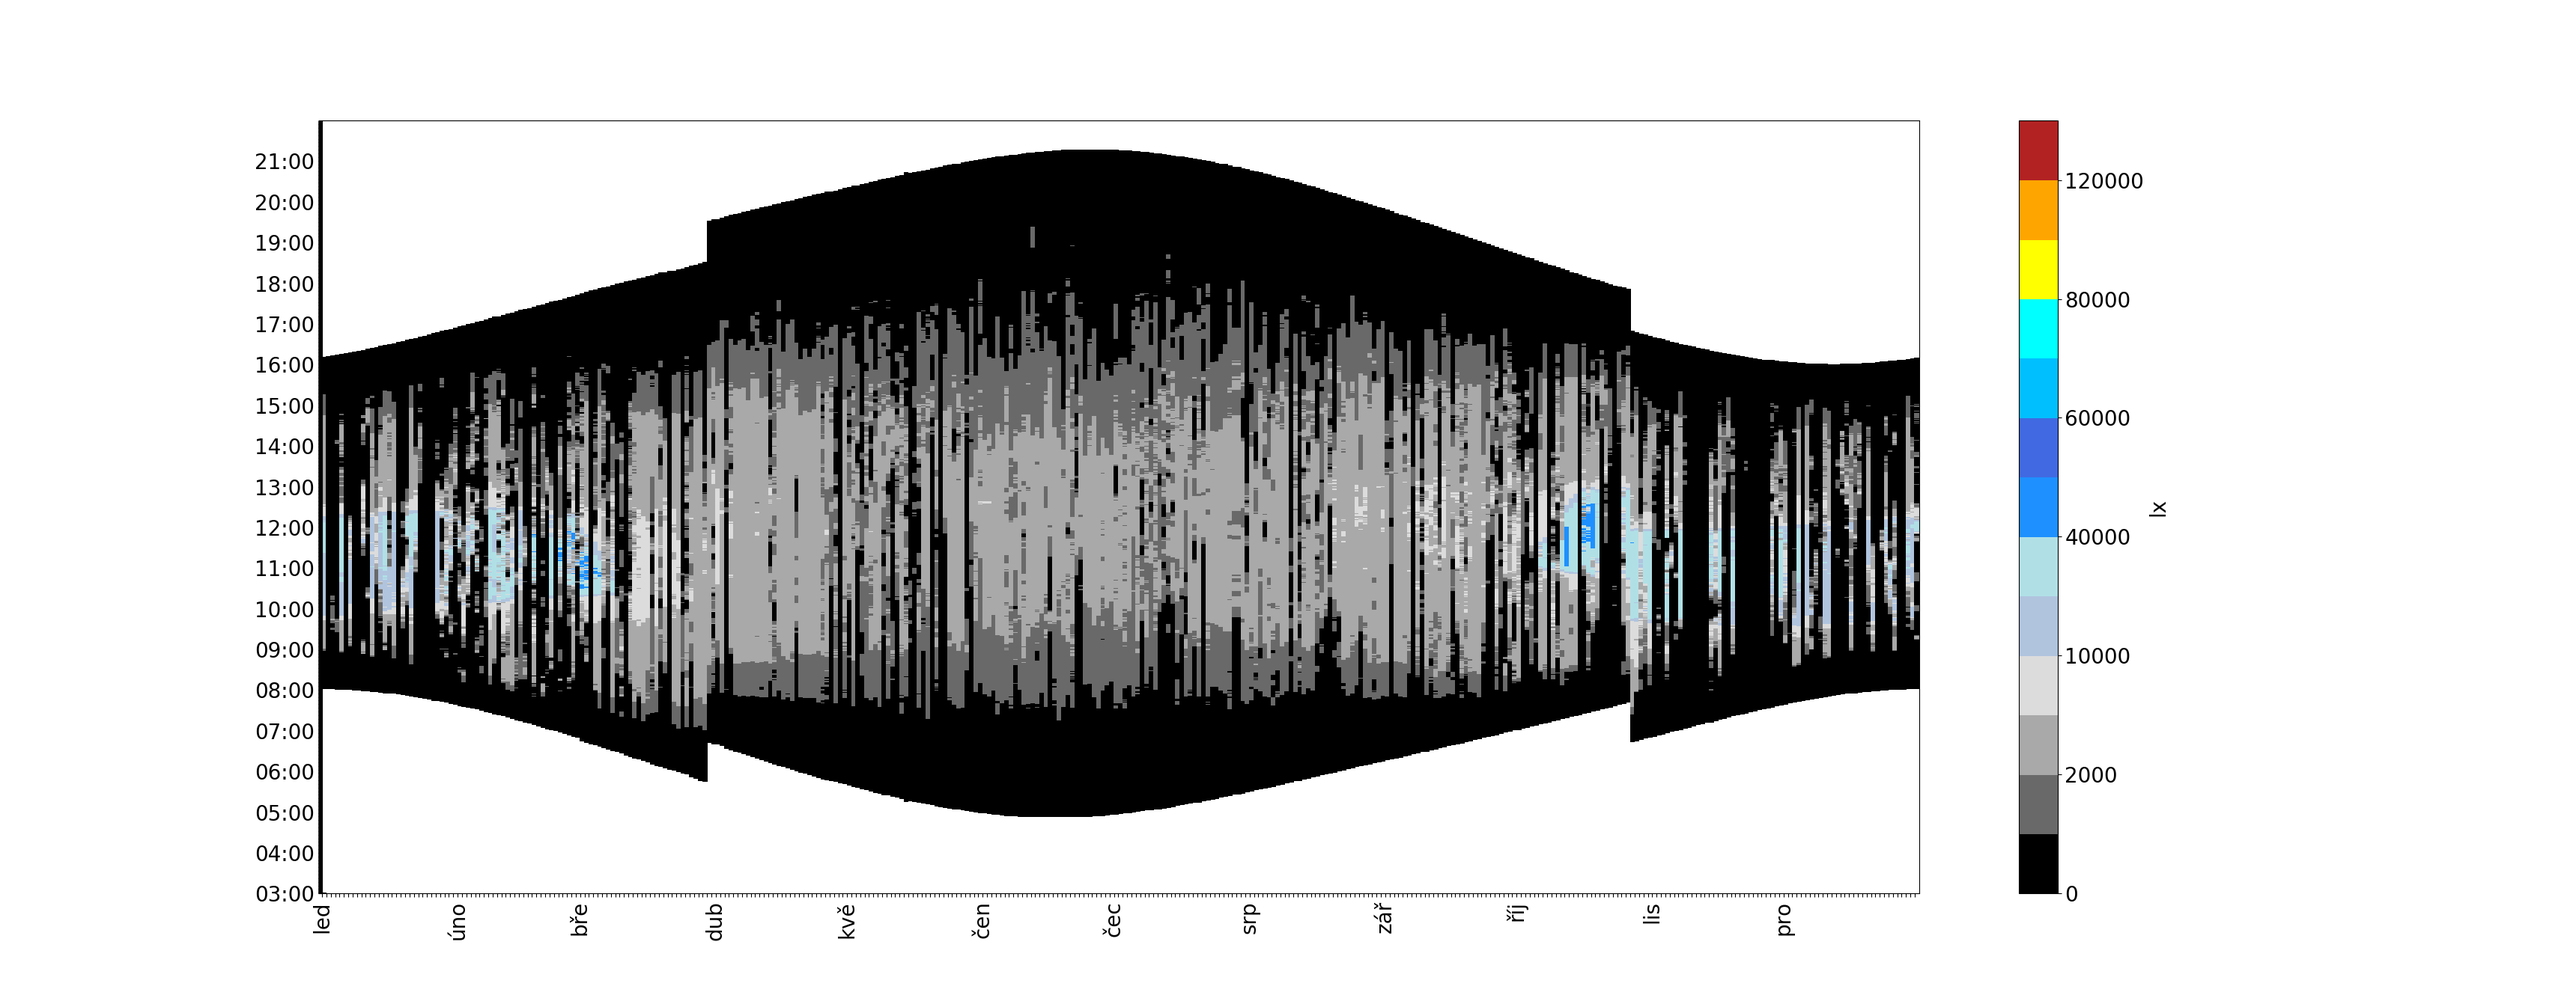
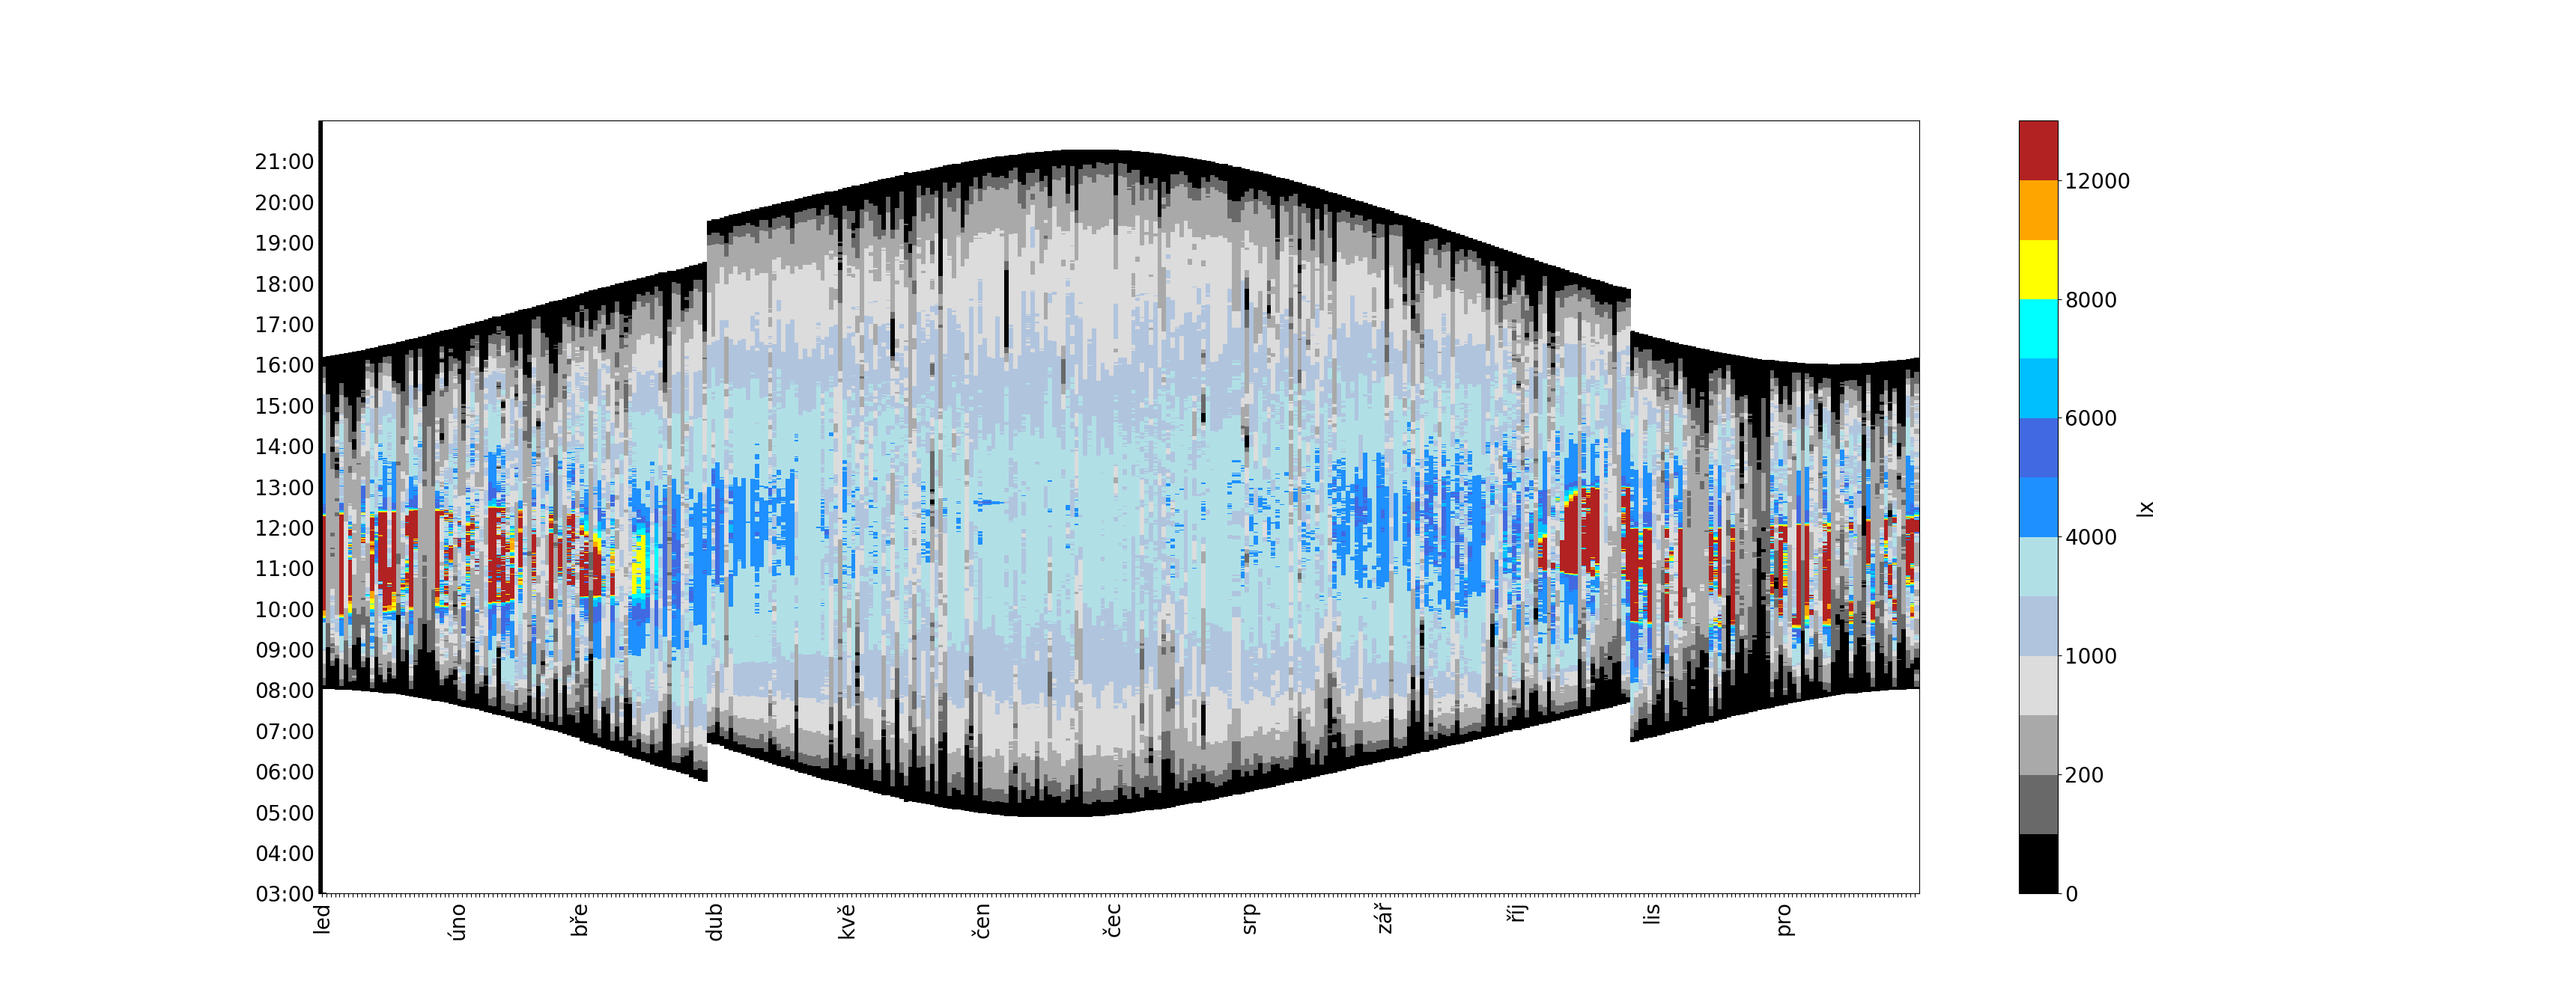
interier fcs / 10

Changed region(s): [[0.1244, 0.1528, 0.7465, 0.7943]]

diff --git a/median_19_interier_cvs_4_fcs.py b/median_19_interier_cvs_4_fcs.py
@@ -40,7 +40,7 @@ fig, ax = plt.subplots()
 
 from matplotlib import colors
 cmap = colors.ListedColormap(['black', 'dimgray', 'darkgrey', 'gainsboro', 'lightsteelblue', 'powderblue', 'dodgerblue', 'royalblue', 'deepskyblue', 'cyan', 'yellow', 'orange', 'firebrick'])
-bounds=[0, 1000, 2000, 5000, 10000, 20000, 40000, 50000, 60000, 70000, 80000, 100000, 120000, 150000]
+bounds=[0, 100, 200, 500, 1000, 2000, 4000, 5000, 6000, 7000, 8000, 10000, 12000, 15000]
 norm = colors.BoundaryNorm(bounds, cmap.N)
 im = ax.pcolor(df2, cmap=cmap, norm=norm)
 

diff --git a/median_19_interier_cvs_5_fcs.py b/median_19_interier_cvs_5_fcs.py
@@ -40,7 +40,7 @@ fig, ax = plt.subplots()
 
 from matplotlib import colors
 cmap = colors.ListedColormap(['black', 'dimgray', 'darkgrey', 'gainsboro', 'lightsteelblue', 'powderblue', 'dodgerblue', 'royalblue', 'deepskyblue', 'cyan', 'yellow', 'orange', 'firebrick'])
-bounds=[0, 1000, 2000, 5000, 10000, 20000, 40000, 50000, 60000, 70000, 80000, 100000, 120000, 150000]
+bounds=[0, 100, 200, 500, 1000, 2000, 4000, 5000, 6000, 7000, 8000, 10000, 12000, 15000]
 norm = colors.BoundaryNorm(bounds, cmap.N)
 im = ax.pcolor(df2, cmap=cmap, norm=norm)
 
